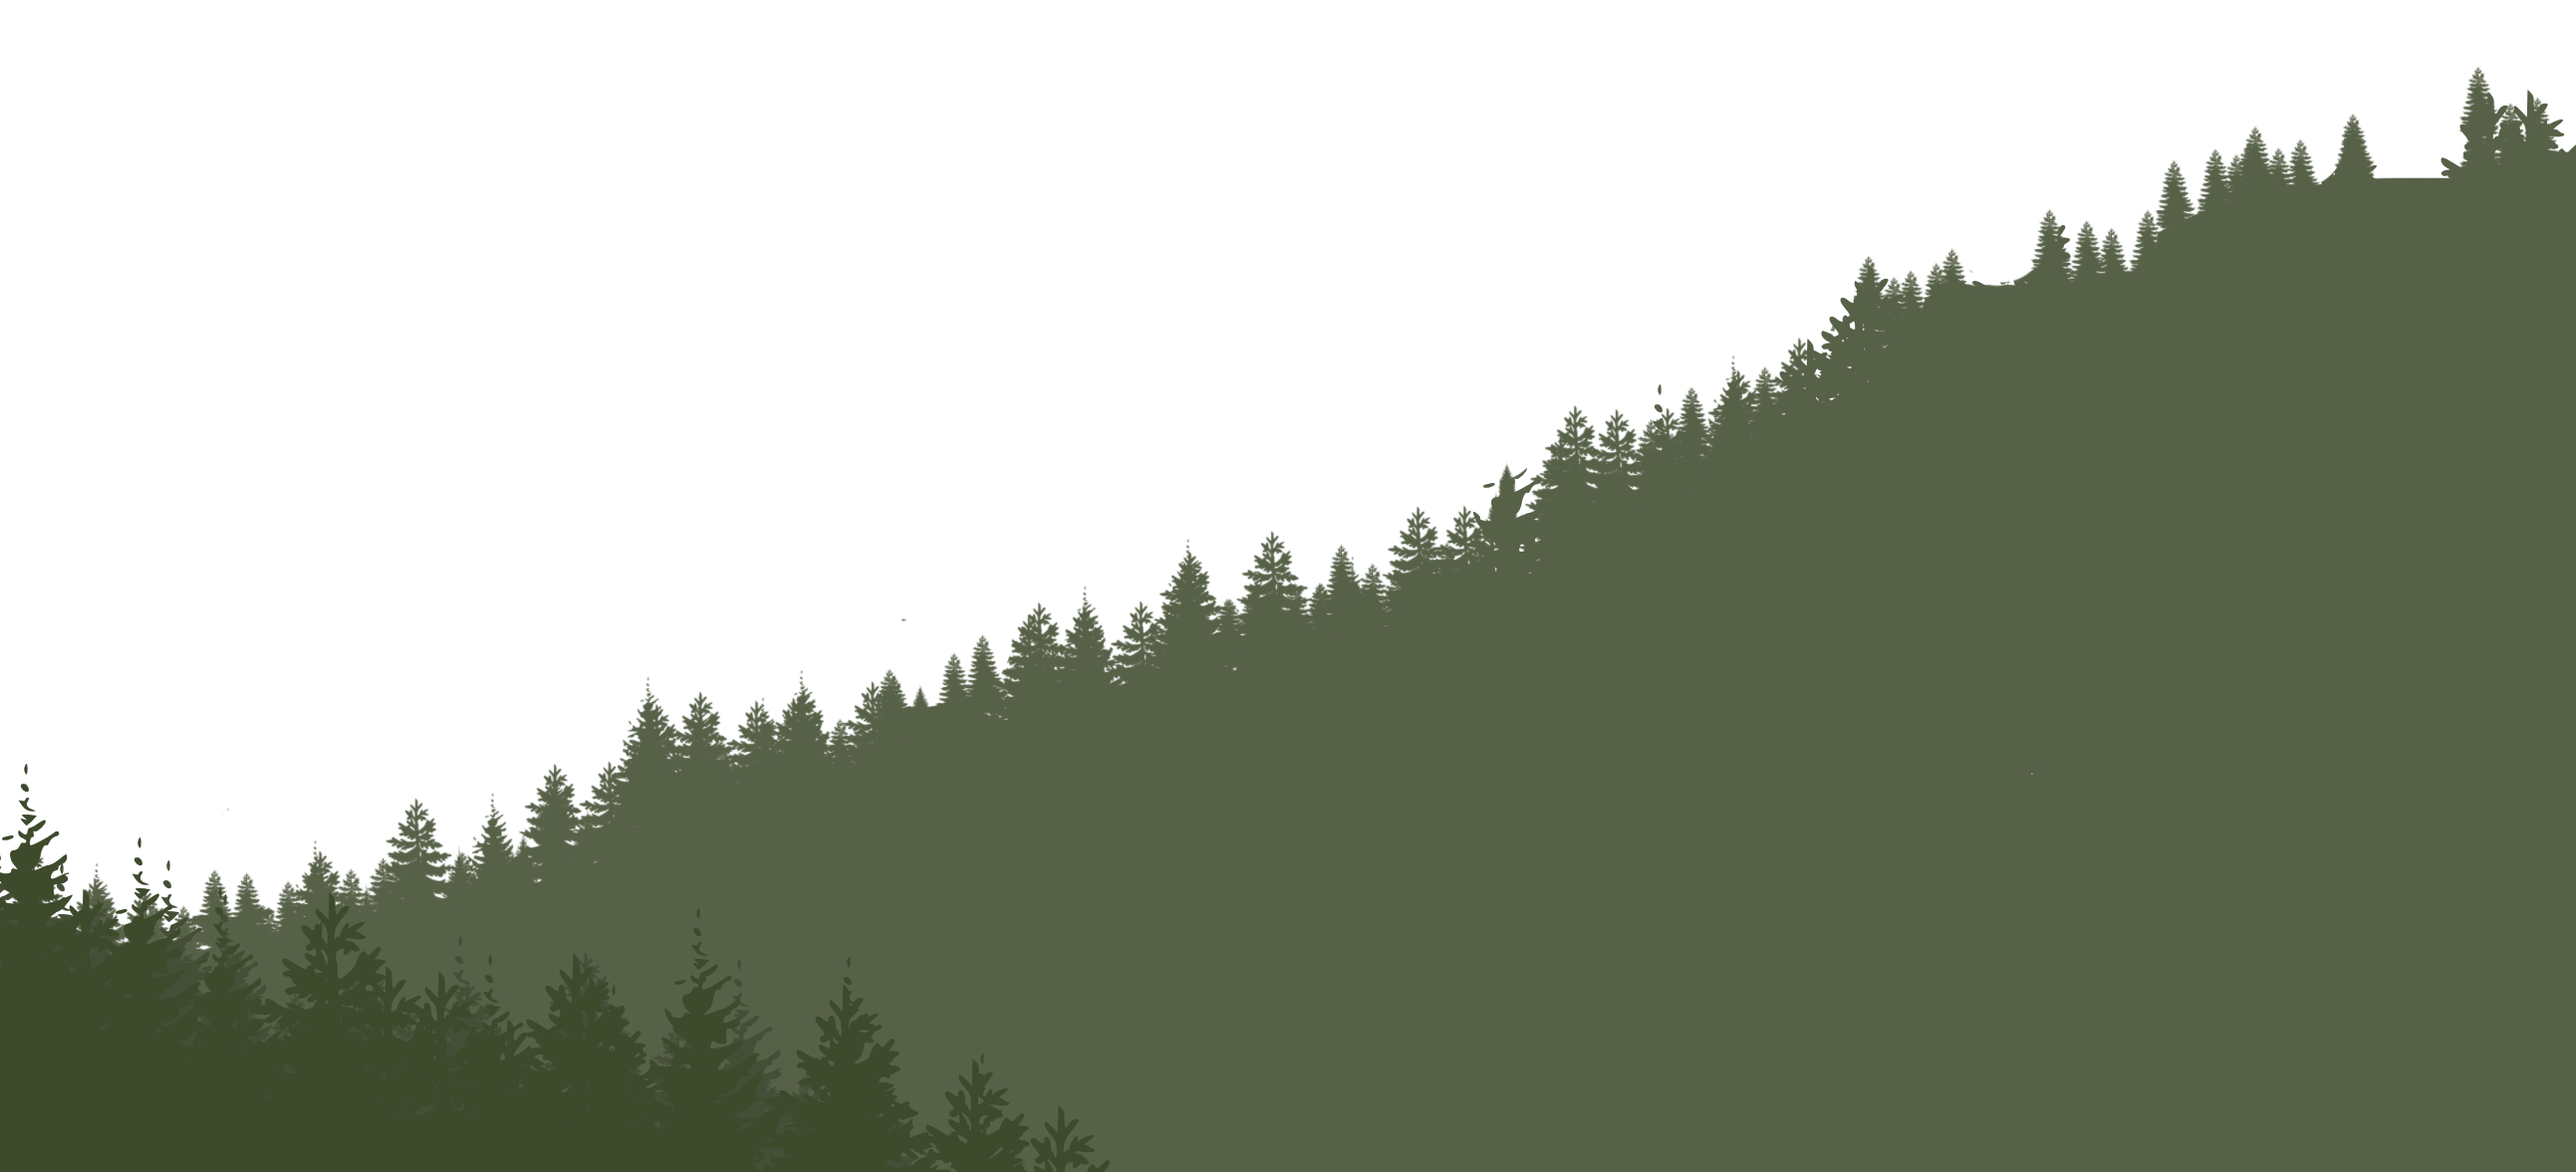
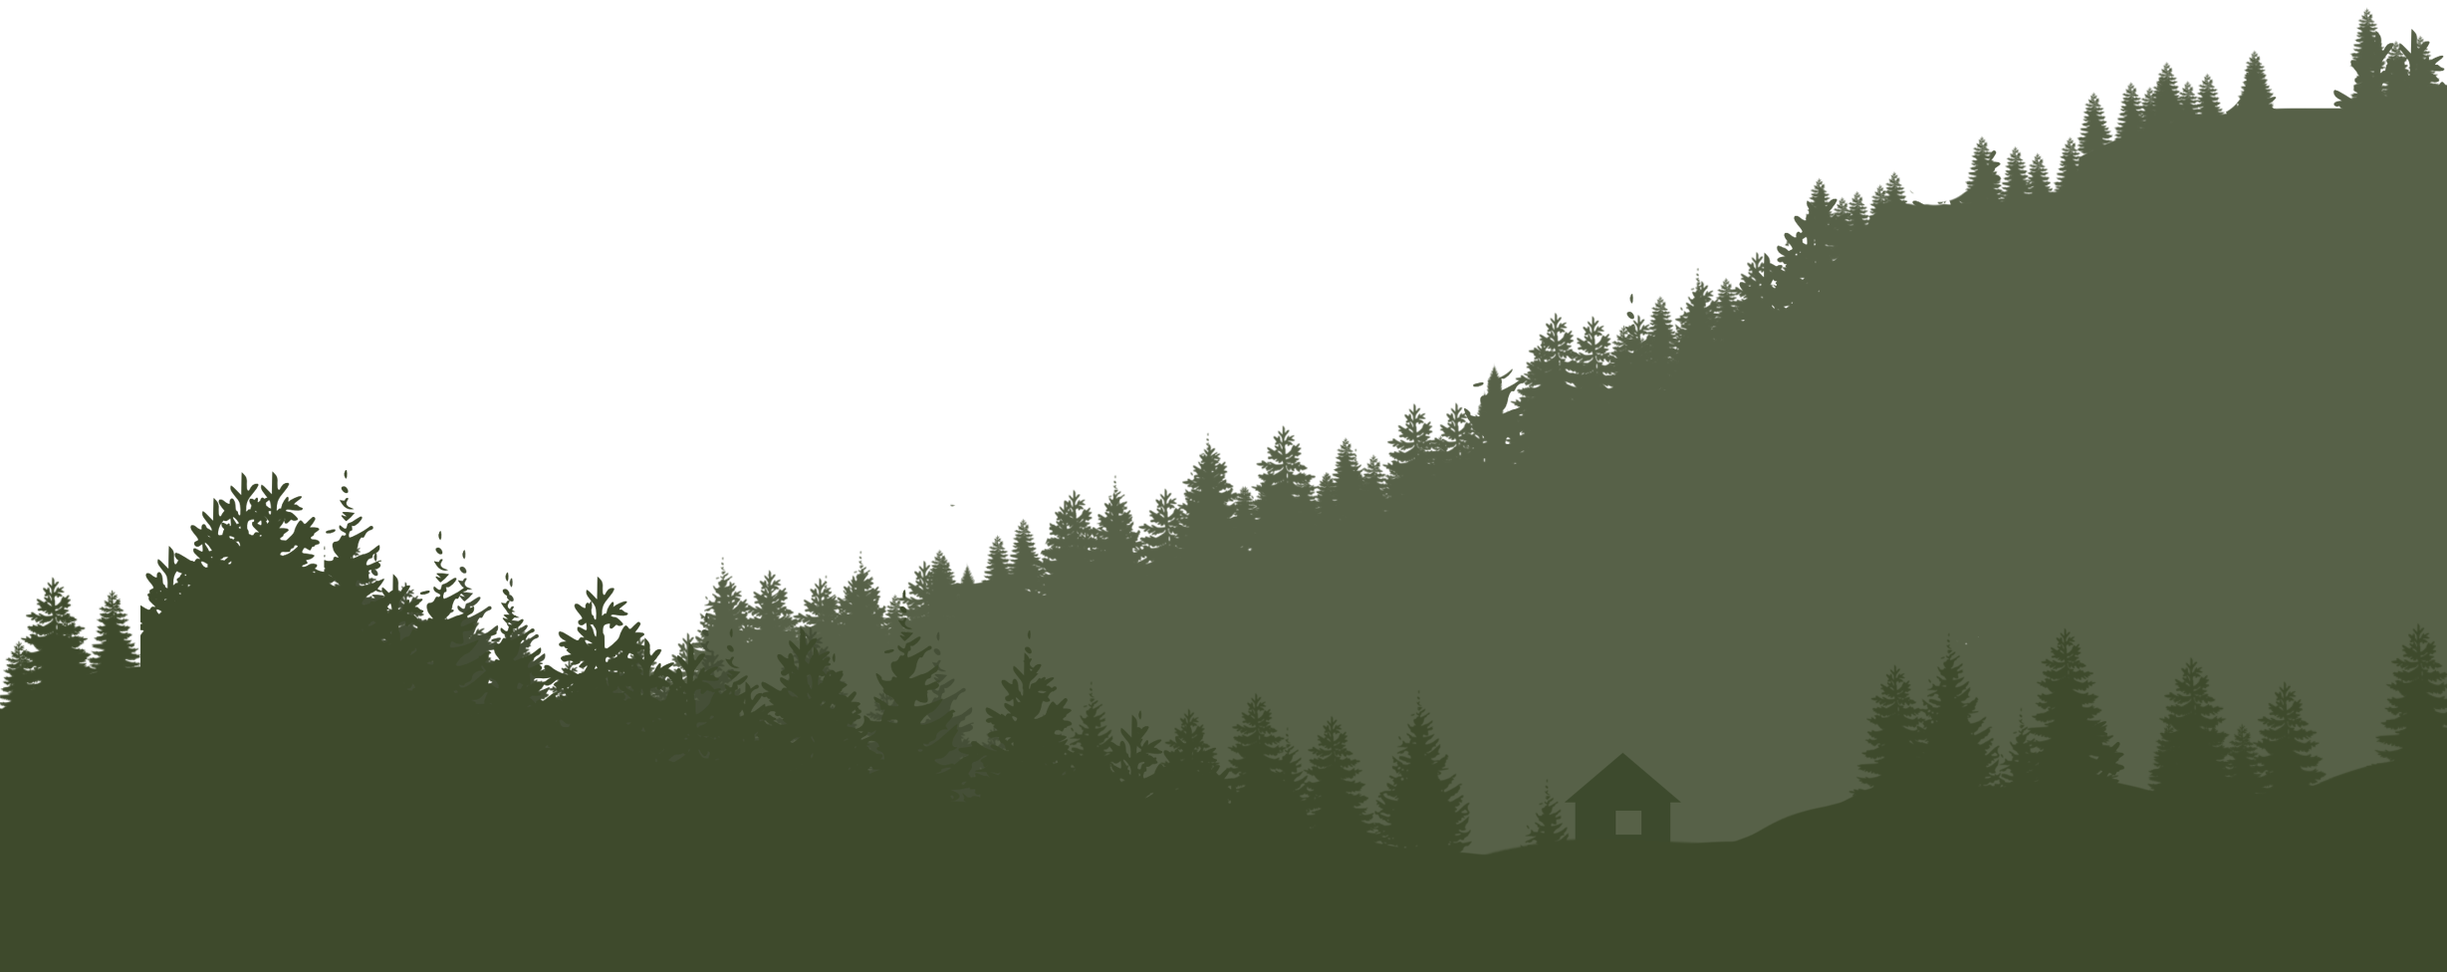
added images for responsiveness

Changed region(s): [[0.0, 0.0, 1.0, 1.0]]

diff --git a/styles/style.css b/styles/style.css
@@ -12,15 +12,10 @@
     height: 100vh;
     margin: 0;
   }
-  
-  header {
-    padding: 12px 15vw;
-    text-align: center;
-  }
-  
+
   main {
     align-items: center;
-    background-image: url(../assets/tree-main.png);
+    background-image: url(../assets/main-middle-screen.png);
     background-position: bottom;
     background-repeat: no-repeat;
     background-attachment: fixed;
@@ -31,6 +26,13 @@
     justify-content: space-between;
     width: 100%;
   }
+  
+  header {
+    padding: 12px 15vw;
+    text-align: center;
+  }
+  
+
   
   .quote-content {
     background-color: #3E4A2C;
@@ -127,10 +129,20 @@
     display: grid;
     color: #d7d7d7;
   }
+
+  @media screen and (min-width: 1280px) {
+    main {
+      background-image: url(../assets/tree-main.png);
+    }
+  }
   
   @media screen and (max-width: 480px) {
     header {
         padding: 12px 10vw;
+    }
+    main {
+      background-image: url(../assets/main-smaller-screen.png);
+
     }
     .footer-border {
       height: 100px;
